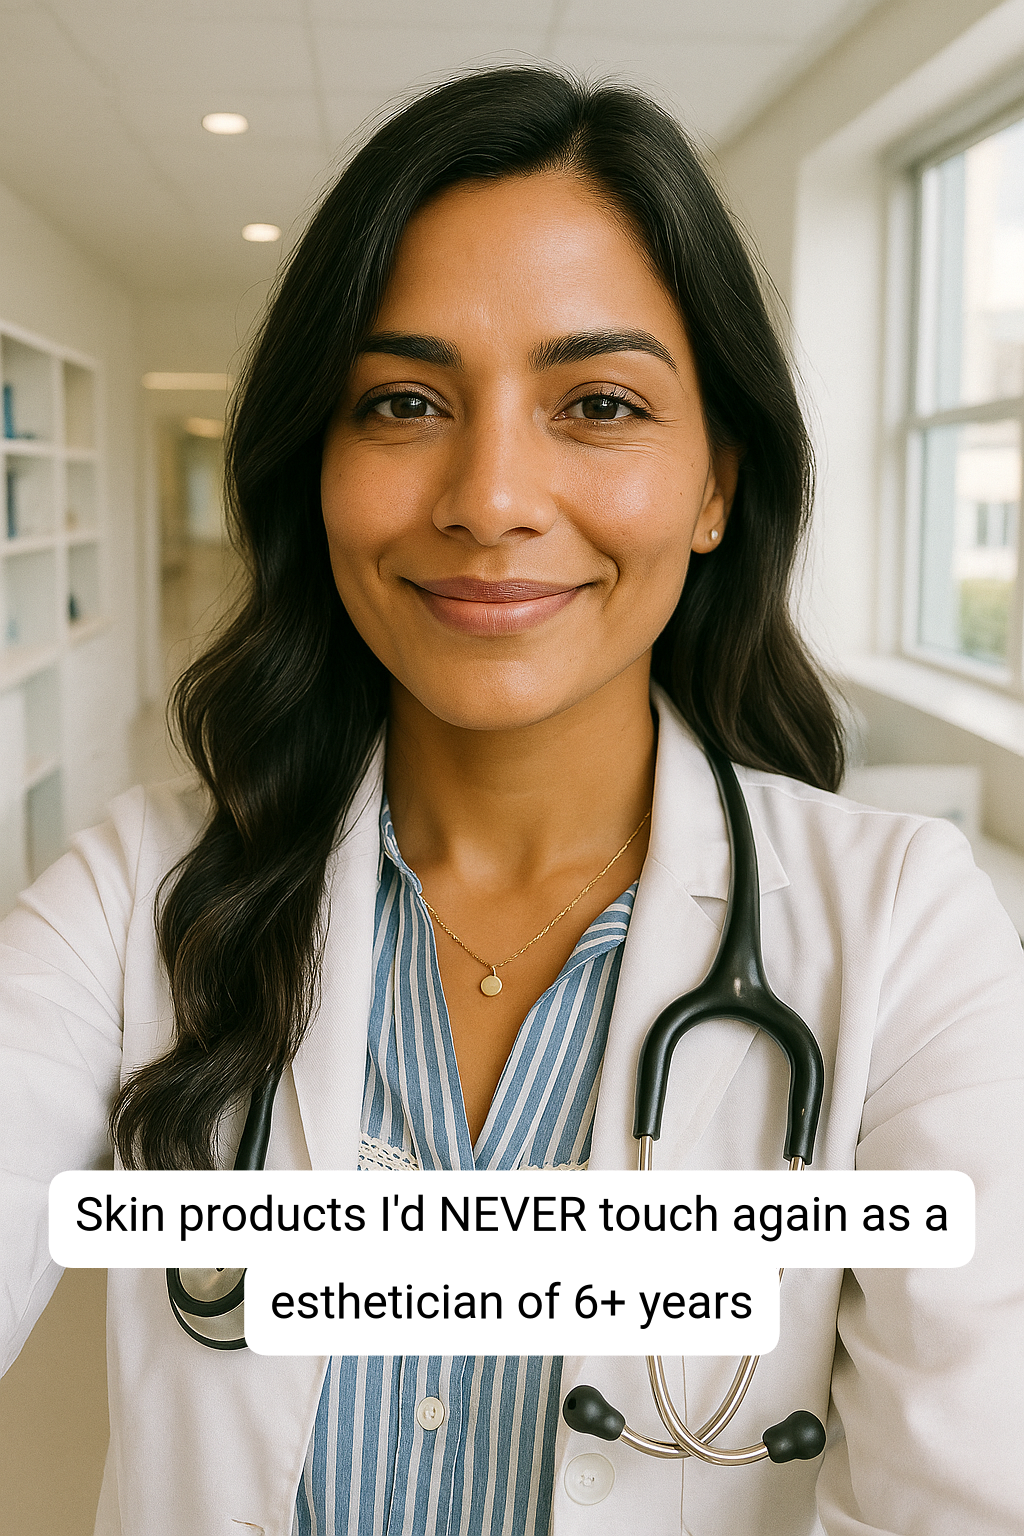
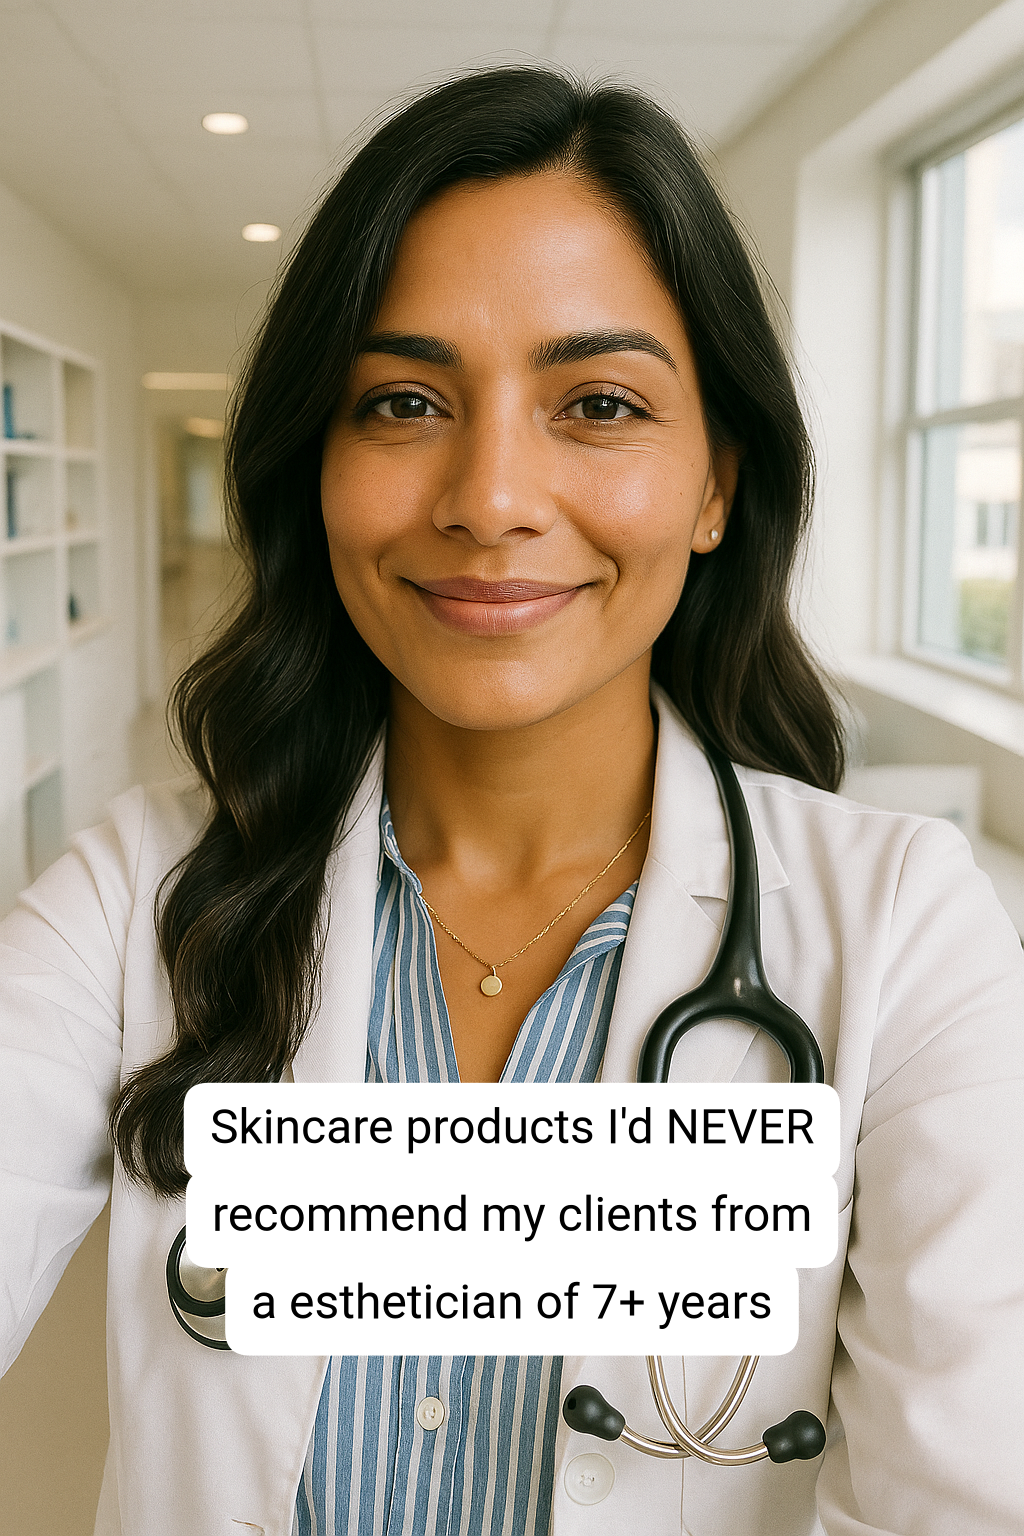
Implement balanced text layout in TikTok text overlay test, enhancing visual appearance and adding utility functions for text preview. Update test text and output image to reflect changes.

Changed region(s): [[0.0312, 0.6875, 0.9688, 0.9062]]

diff --git a/text-overlay-test.js b/text-overlay-test.js
@@ -3,6 +3,196 @@ const fs = require("fs");
 const path = require("path");
 
 /**
+ * Balances text lines for optimal visual appearance
+ * Aims for 3-4 words per line with similar character counts
+ * @param {string} text - Input text to balance
+ * @param {Object} options - Configuration options
+ * @returns {string[]} Array of balanced lines
+ */
+function balanceTextLines(text, options = {}) {
+  const {
+    targetWordsPerLine = 3.5, // Ideal words per line (between 3-4)
+    maxWordsPerLine = 5, // Maximum words allowed per line
+    minWordsPerLine = 2, // Minimum words allowed per line
+    maxCharVariance = 0.3, // Max character variance between lines (30%)
+    preferShorterLines = true, // Prefer shorter, punchier lines
+  } = options;
+
+  // Clean and split text into words
+  const words = text
+    .trim()
+    .split(/\s+/)
+    .filter((word) => word.length > 0);
+
+  if (words.length <= maxWordsPerLine) {
+    return [words.join(" ")];
+  }
+
+  // Generate all possible line arrangements
+  const arrangements = generateArrangements(
+    words,
+    minWordsPerLine,
+    maxWordsPerLine
+  );
+
+  // Score each arrangement and pick the best one
+  const bestArrangement = arrangements.reduce((best, current) => {
+    const currentScore = scoreArrangement(
+      current,
+      targetWordsPerLine,
+      maxCharVariance
+    );
+    const bestScore = scoreArrangement(
+      best,
+      targetWordsPerLine,
+      maxCharVariance
+    );
+    return currentScore > bestScore ? current : best;
+  });
+
+  return bestArrangement;
+}
+
+/**
+ * Generates possible line arrangements using dynamic programming
+ */
+function generateArrangements(words, minWords, maxWords) {
+  const arrangements = [];
+
+  function backtrack(startIndex, currentArrangement) {
+    if (startIndex >= words.length) {
+      arrangements.push([...currentArrangement]);
+      return;
+    }
+
+    // Try different line lengths
+    for (let wordsInLine = minWords; wordsInLine <= maxWords; wordsInLine++) {
+      if (startIndex + wordsInLine <= words.length) {
+        const line = words
+          .slice(startIndex, startIndex + wordsInLine)
+          .join(" ");
+        currentArrangement.push(line);
+        backtrack(startIndex + wordsInLine, currentArrangement);
+        currentArrangement.pop();
+      }
+    }
+  }
+
+  backtrack(0, []);
+  return arrangements;
+}
+
+/**
+ * Scores an arrangement based on balance criteria
+ */
+function scoreArrangement(lines, targetWords, maxCharVariance) {
+  if (lines.length === 0) return 0;
+
+  let score = 0;
+  const lineLengths = lines.map((line) => line.length);
+  const wordCounts = lines.map((line) => line.split(" ").length);
+
+  // Calculate character variance
+  const avgLength =
+    lineLengths.reduce((sum, len) => sum + len, 0) / lines.length;
+  const charVariance = Math.max(...lineLengths) - Math.min(...lineLengths);
+  const normalizedVariance = charVariance / avgLength;
+
+  // Score based on character balance (higher score = better balance)
+  score += Math.max(0, 100 - normalizedVariance * 200);
+
+  // Score based on word count proximity to target
+  const avgWords =
+    wordCounts.reduce((sum, count) => sum + count, 0) / lines.length;
+  const wordDeviation = Math.abs(avgWords - targetWords);
+  score += Math.max(0, 50 - wordDeviation * 20);
+
+  // Bonus for consistent word counts
+  const wordVariance = Math.max(...wordCounts) - Math.min(...wordCounts);
+  score += Math.max(0, 30 - wordVariance * 10);
+
+  // Slight penalty for too many lines (prefer concise)
+  score -= Math.max(0, (lines.length - 3) * 5);
+
+  // Bonus for lines that are 3-4 words
+  const idealWordBonus = wordCounts.reduce((bonus, count) => {
+    if (count >= 3 && count <= 4) return bonus + 10;
+    return bonus;
+  }, 0);
+  score += idealWordBonus;
+
+  return score;
+}
+
+/**
+ * Enhanced version with canvas text measurement support
+ * @param {string} text - Input text
+ * @param {CanvasRenderingContext2D} ctx - Canvas context for text measurement
+ * @param {number} maxWidth - Maximum width constraint
+ * @param {Object} options - Additional options
+ */
+function balanceTextLinesCanvas(
+  text,
+  ctx = null,
+  maxWidth = null,
+  options = {}
+) {
+  const baseLines = balanceTextLines(text, options);
+
+  // If no canvas context provided, return basic balanced lines
+  if (!ctx || !maxWidth) {
+    return baseLines;
+  }
+
+  // Validate lines fit within width constraint
+  const validLines = [];
+
+  for (const line of baseLines) {
+    const lineWidth = ctx.measureText(line).width;
+
+    if (lineWidth <= maxWidth) {
+      validLines.push(line);
+    } else {
+      // Split line that's too wide
+      const words = line.split(" ");
+      let currentLine = "";
+
+      for (const word of words) {
+        const testLine = currentLine ? `${currentLine} ${word}` : word;
+        const testWidth = ctx.measureText(testLine).width;
+
+        if (testWidth <= maxWidth) {
+          currentLine = testLine;
+        } else {
+          if (currentLine) validLines.push(currentLine);
+          currentLine = word;
+        }
+      }
+
+      if (currentLine) validLines.push(currentLine);
+    }
+  }
+
+  return validLines;
+}
+
+/**
+ * Utility function to preview the balanced text
+ */
+function previewBalancedText(text, options = {}) {
+  const lines = balanceTextLines(text, options);
+  console.log("Balanced Text Preview:");
+  console.log("═".repeat(50));
+  lines.forEach((line, index) => {
+    const words = line.split(" ").length;
+    const chars = line.length;
+    console.log(`${index + 1}: "${line}" (${words} words, ${chars} chars)`);
+  });
+  console.log("═".repeat(50));
+  return lines;
+}
+
+/**
  * TikTok Text Overlay Test Implementation
  *
  * This class implements TikTok-style text overlays with white bubble backgrounds
@@ -97,7 +287,7 @@ class TikTokTextOverlayTest {
   }
 
   /**
-   * Calculate text dimensions and line breaks for proper wrapping
+   * Calculate text dimensions and line breaks using balanced text layout
    *
    * @param {CanvasRenderingContext2D} ctx - Canvas context
    * @param {string} text - Text to measure
@@ -105,30 +295,20 @@ class TikTokTextOverlayTest {
    * @returns {Object} Text metrics including lines, lineHeight, and totalHeight
    */
   calculateTextMetrics(ctx, text, maxWidth) {
-    const words = text.split(" ");
-    const lines = [];
-    let currentLine = "";
-
-    for (const word of words) {
-      const testLine = currentLine ? `${currentLine} ${word}` : word;
-      const metrics = ctx.measureText(testLine);
-
-      if (metrics.width > maxWidth && currentLine) {
-        lines.push(currentLine);
-        currentLine = word;
-      } else {
-        currentLine = testLine;
-      }
-    }
-
-    if (currentLine) {
-      lines.push(currentLine);
-    }
+    // Use balanced text layout for optimal visual appearance
+    const balancedLines = balanceTextLinesCanvas(text, ctx, maxWidth, {
+      targetWordsPerLine: 3.5, // Ideal words per line (between 3-4)
+      maxWordsPerLine: 5, // Maximum words allowed per line
+      minWordsPerLine: 2, // Minimum words allowed per line
+      maxCharVariance: 0.3, // Max character variance between lines (30%)
+      preferShorterLines: true, // Prefer shorter, punchier lines
+    });
 
     return {
-      lines,
+      lines: balancedLines,
       lineHeight: this.config.fontSize * this.config.lineHeight,
-      totalHeight: lines.length * this.config.fontSize * this.config.lineHeight,
+      totalHeight:
+        balancedLines.length * this.config.fontSize * this.config.lineHeight,
     };
   }
 
@@ -335,6 +515,26 @@ class TikTokTextOverlayTest {
   setFontWeight(weight) {
     this.config.fontWeight = weight;
   }
+
+  /**
+   * Preview balanced text layout before generating overlay
+   *
+   * @param {string} text - Text to preview
+   * @param {Object} options - Balancing options
+   * @returns {string[]} Array of balanced lines
+   */
+  previewBalancedText(text, options = {}) {
+    const defaultOptions = {
+      targetWordsPerLine: 3.5,
+      maxWordsPerLine: 5,
+      minWordsPerLine: 2,
+      maxCharVariance: 0.3,
+      preferShorterLines: true,
+    };
+
+    const finalOptions = { ...defaultOptions, ...options };
+    return previewBalancedText(text, finalOptions);
+  }
 }
 
 /**
@@ -342,7 +542,7 @@ class TikTokTextOverlayTest {
  * Focused on bottom position only (most common for TikTok)
  */
 async function runTest() {
-  console.log("🚀 Starting TikTok Text Overlay Test with Roboto Font");
+  console.log("🚀 Starting TikTok Text Overlay Test with Balanced Text Layout");
   console.log("=".repeat(50));
 
   const overlay = new TikTokTextOverlayTest();
@@ -350,21 +550,25 @@ async function runTest() {
   // Test configuration
   const testImage = "file.png";
   const testText =
-    "Skin products I'd NEVER touch again as a esthetician of 6+ years";
+    "Skincare products I'd NEVER recommend my clients from a esthetician of 7+ years";
 
   try {
+    // Preview the balanced text layout
+    console.log("\n📝 Previewing balanced text layout:");
+    overlay.previewBalancedText(testText);
+
     // Set position to bottom (most common for TikTok)
-    console.log("\n📋 Testing with Roboto font...");
+    console.log("\n📋 Testing with Roboto font and balanced text...");
     overlay.setPosition("bottom");
     overlay.setFontFamily("Roboto");
     overlay.setFontWeight("bold");
 
-    // Generate the text overlay with Roboto
+    // Generate the text overlay with balanced text layout
     await overlay.addTextOverlay(testImage, testText, "output.png");
 
     console.log("\n🎉 Test completed successfully!");
     console.log("📁 Check the generated output file:");
-    console.log("   - output.png (Roboto font)");
+    console.log("   - output.png (Roboto font with balanced text)");
   } catch (error) {
     console.error("❌ Test failed:", error);
     process.exit(1);
@@ -372,9 +576,32 @@ async function runTest() {
 }
 
 // Export for use in other modules
-module.exports = TikTokTextOverlayTest;
+module.exports = {
+  TikTokTextOverlayTest,
+  balanceTextLines,
+  balanceTextLinesCanvas,
+  previewBalancedText,
+};
 
 // Run test if this file is executed directly
 if (require.main === module) {
   runTest();
+}
+
+// Example usage for testing balanced text functionality
+if (require.main === module) {
+  console.log("\n" + "=".repeat(60));
+  console.log("🧪 Testing Balanced Text Layout with Sample Texts");
+  console.log("=".repeat(60));
+
+  const sampleTexts = [
+    "Skincare products I'd NEVER recommend my clients from a esthetician of 7+ years",
+    "Brutally rating viral skincare as a esthetician that has tried it ALL",
+    "Skin products I'd NEVER touch again as a esthetician of 6+ years",
+  ];
+
+  sampleTexts.forEach((text, index) => {
+    console.log(`\n📝 Sample ${index + 1}:`);
+    previewBalancedText(text);
+  });
 }
